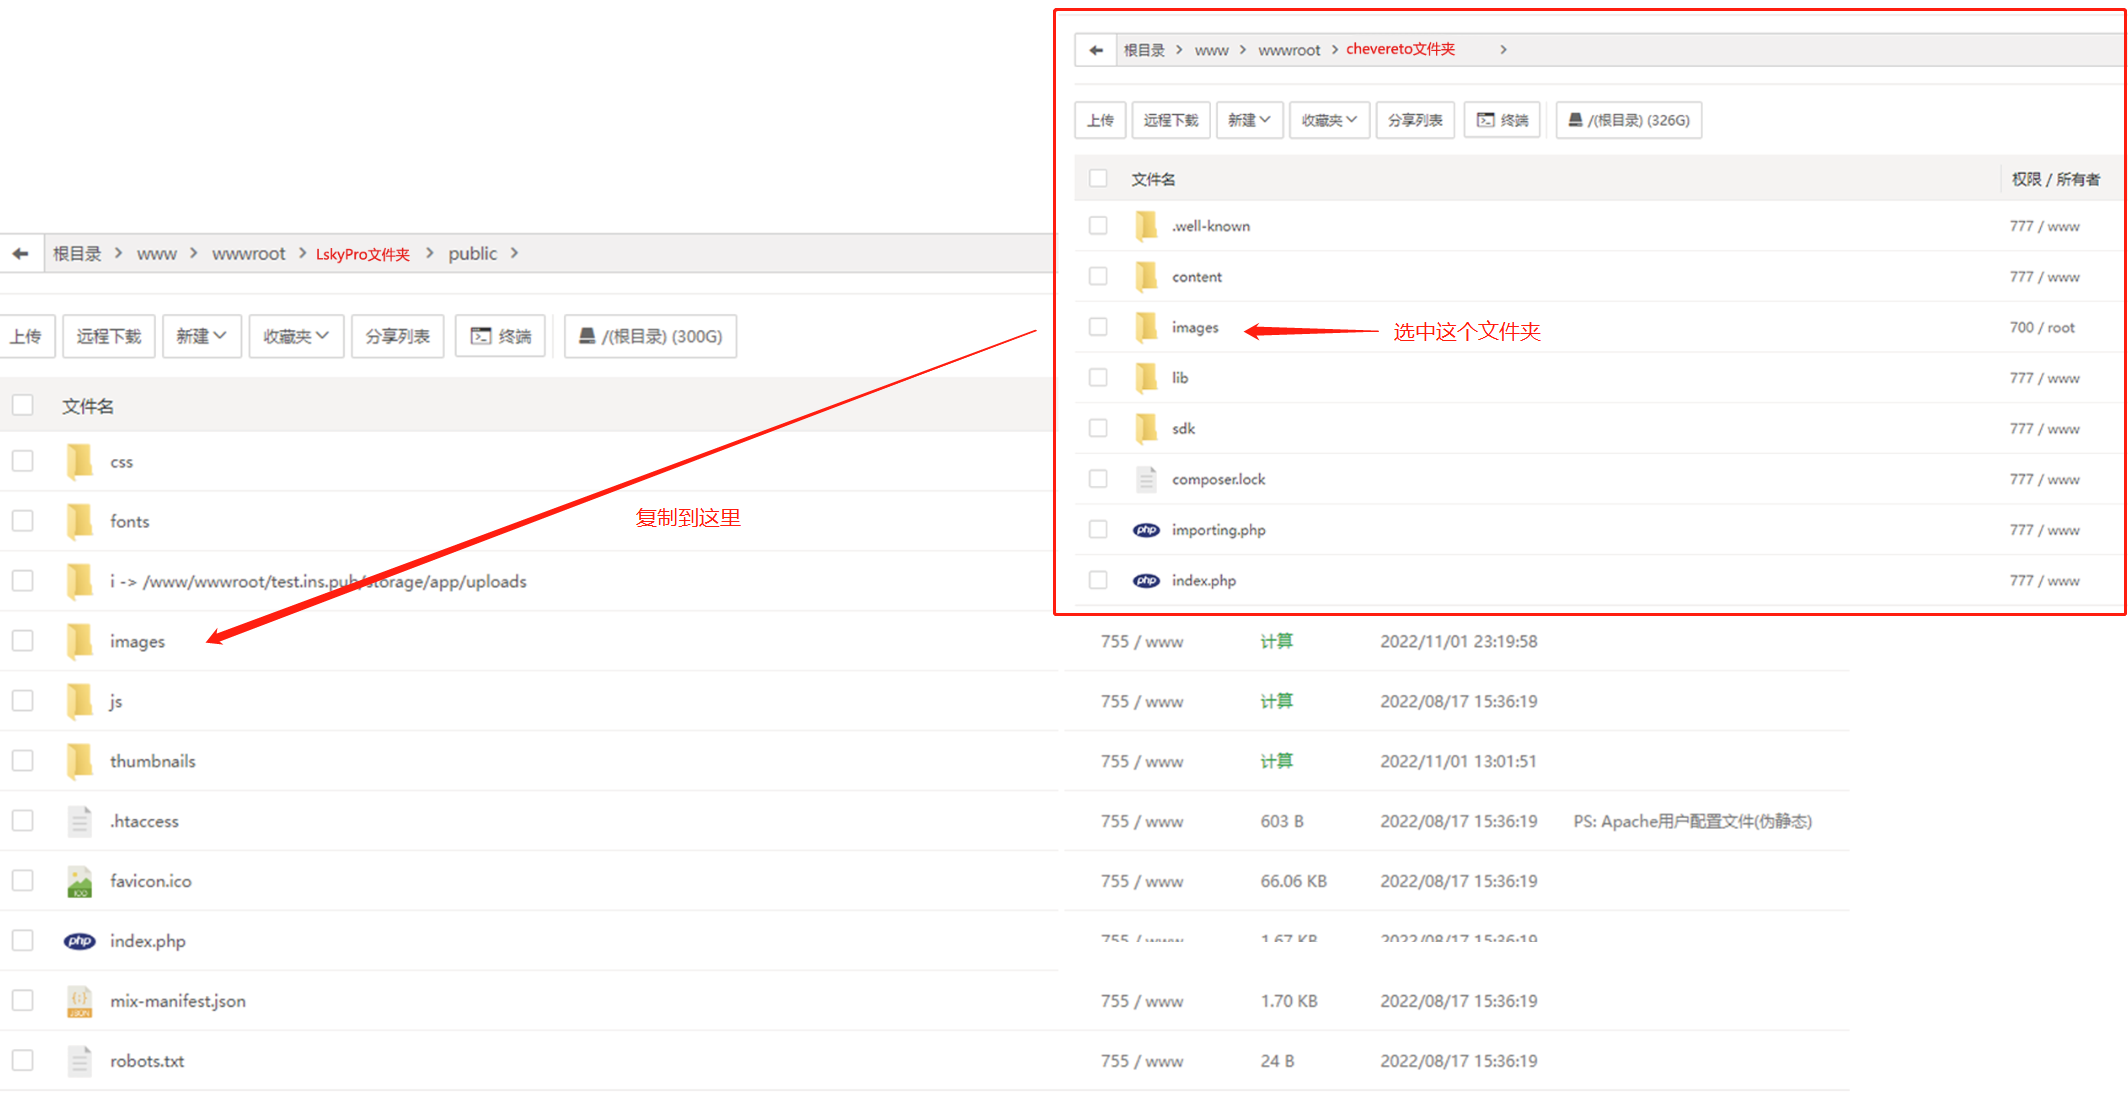
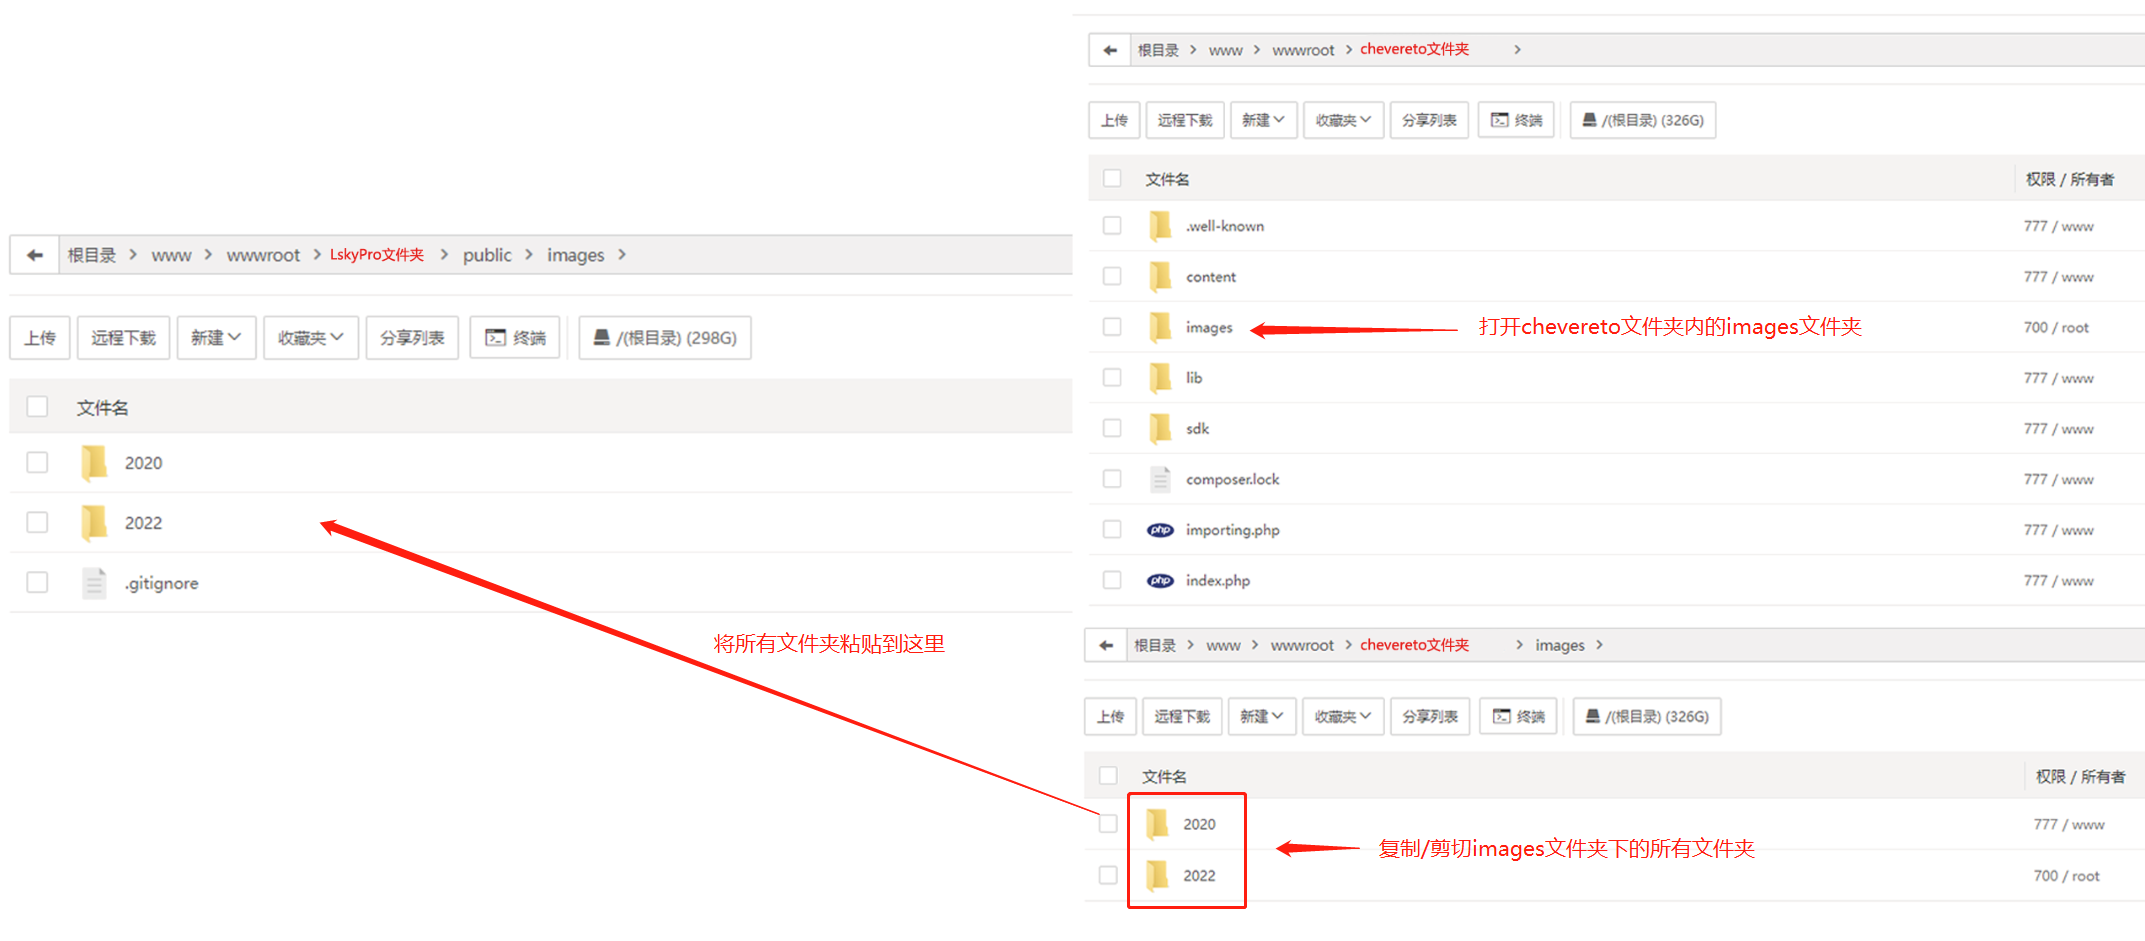
基本功能全部完成

diff --git a/main.go b/main.go
@@ -7,9 +7,9 @@ import (
 	"chevereto2LskyPro/common"
 	"chevereto2LskyPro/model"
 	"chevereto2LskyPro/sql"
+	"encoding/json"
 	"fmt"
 	"os"
-	"path"
 	"regexp"
 	"strconv"
 )
@@ -155,7 +155,7 @@ func changeData(startAt int) {
 		}
 	}
 	// 查询并转换所有的图片
-	if data, err := sql.Db1Dql("SELECT COALESCE(image_user_id, ''), COALESCE(image_album_id, ''), image_date, image_name, image_original_filename, image_size, image_extension, image_md5, image_width, image_height, image_nsfw, image_uploader_ip FROM " + prefix1 + "images"); err == nil {
+	if data, err := sql.Db1Dql("SELECT COALESCE(image_user_id, ''), COALESCE(image_album_id, ''), image_date, image_name, image_original_filename, image_size, image_extension, image_md5, image_width, image_height, image_nsfw, image_uploader_ip FROM " + prefix1 + "images"); err == nil && startAt != 4 {
 		fmt.Printf("总计%d张图片, 开始转换\n", len(data))
 		errNum := 0
 		for k, v := range data {
@@ -182,7 +182,7 @@ func changeData(startAt int) {
 			lsky.Key = common.RandString(6)
 			// 路径
 			create := common.Str2time(v[2])
-			lsky.Path = "images/" + common.Time2String(create, false)
+			lsky.Path = common.Time2String(create, false)
 			// 图片名
 			lsky.Name = v[3] + "." + v[6]
 			// 原始文件名
@@ -244,11 +244,69 @@ func changeData(startAt int) {
 			fmt.Println(err)
 		}
 	}
+	// 更新策略
+	{
+		fmt.Println("开始更新策略")
+		config, err := sql.Db2Dql("SELECT configs from " + prefix2 + "strategies WHERE id = 1")
+		if err != nil || config[0][0] == "" {
+			fmt.Println("策略更新失败, 错误信息: ", err)
+			return
+		}
+		// 解析json
+		var data map[string]interface{}
+		err = json.Unmarshal([]byte(config[0][0]), &data)
+		if err != nil {
+			fmt.Println("策略更新失败, 错误信息: ", err)
+			return
+		}
+		host := data["url"].(string)
+		pattern := regexp.MustCompile("^http(s)?://.+?/")
+		host = pattern.FindString(host)
+		if host == "" {
+			fmt.Println("策略更新失败, 错误信息: ", "无法找到域名")
+			return
+		}
+		targetPath := data["root"].(string)
+		path := common.GetConfigString("img", "path") + "/public/images"
+		data["url"] = host + "images"
+
+		symErr := os.Symlink(targetPath, path)
+		if symErr == nil {
+			fmt.Println("软链接创建成功")
+		} else {
+			fmt.Println("软链接创建失败, 错误信息: ", symErr)
+		}
+
+		// 更新数据库
+		json, DbErr := json.Marshal(data)
+		if DbErr != nil {
+			fmt.Println("数据库更新失败, 错误信息: ", err)
+			return
+		}
+		_, DbErr = sql.Db2Dml("UPDATE "+prefix2+"strategies SET configs = ? WHERE id = 1", json)
+		if DbErr == nil {
+			fmt.Println("数据库更新成功")
+		} else {
+			fmt.Println("数据库更新失败, 错误信息: ", err)
+		}
+
+		if symErr == nil && DbErr == nil {
+			fmt.Println("策略更新成功")
+			return
+		}
+		fmt.Println("策略更新部分失败")
+	}
+	fmt.Println("转换全部完成!!!")
 }
 
 // 删除多余图片
 func deleteMoreImage() {
-	path := common.GetConfigString("img", "path")
+	path, err := os.Readlink(common.GetConfigString("img", "path") + "/public/images")
+	if err != nil {
+		fmt.Println("读取文件夹失败, 错误信息: ", err)
+		return
+	}
+	path += "/"
 	list := new([]string)
 	// 获取所有的文件
 	if common.GetAllFile(path, list) != nil {
@@ -272,40 +330,19 @@ func deleteMoreImage() {
 	fmt.Printf("已为你删除%d个文件, 删除失败%d个", total, errNUm)
 }
 
-// 创建软链接
-func createSymlink() {
-	targetPath := path.Dir(common.GetConfigString("img", "path"))
-	path, err := os.Readlink(path.Dir(targetPath) + "/i")
-	if err != nil {
-		fmt.Println("软链接创建失败, 错误信息: " + err.Error())
-		return
-	}
-	path += "/images"
-
-	fmt.Println("开始软链接 " + path + " 到 " + targetPath)
-	err = os.Symlink(targetPath, path)
-	if err != nil {
-		fmt.Println("软链接创建失败, 错误信息: " + err.Error())
-	} else {
-		fmt.Println("软链接创建成功")
-	}
-}
-
 // 转换函数
 func main() {
 	var input int
 	// 是否需要删除重复文件
-	fmt.Printf("欢迎使用图床转换工具\n请选择操作(1转换数据库 2删除重复文件 3创建软链接):")
+	fmt.Printf("欢迎使用图床转换工具\n请选择操作(1转换数据库 2删除重复文件):")
 	if _, err := fmt.Scan(&input); err == nil && input == 1 {
-		fmt.Printf("请选择从哪个步骤开始(1从转移用户&相册开始 2从转移用户开始 3从转移图片开始):")
-		if _, err := fmt.Scan(&input); err == nil && (input == 1 || input == 2 || input == 3) {
+		fmt.Printf("请选择从哪个步骤开始(1从转移用户&相册开始 2从转移用户开始 3从转移图片开始 4从更新策略开始):")
+		if _, err := fmt.Scan(&input); err == nil && (input == 1 || input == 2 || input == 3 || input == 4) {
 			changeData(input)
 		} else {
 			fmt.Println("输入错误")
 		}
 	} else if err == nil && input == 2 {
-		createSymlink()
-	} else if err == nil && input == 3 {
 		deleteMoreImage()
 	} else if err != nil {
 		fmt.Println(err)

diff --git a/readme.md b/readme.md
@@ -19,7 +19,9 @@
 
 然后用 `./chevereto2LskyPro` 启动程序
 
-根据提示选择操作, 我们先选择 `转换数据库`, 然后根据想要的选项进行选择
+根据提示选择操作, 我们先选择 `转换数据库`
+
+如果尚未进行过转换, 推荐从 `1转移用户&相册开始` 开始
 
 ![image](./images/02.png)
 
@@ -30,16 +32,7 @@
 **至此, 所有的数据迁移工作已经完成**
 
 ---
-## 创建软链接（可选）
-
-迁移文件后, 可能会导致在管理后台无法显示图片, 这是因为图片文件的路径发生了变化, 我们需要手动创建软链接
-
-此步骤可选, 如果不需要管理后台显示转移的图片, 可以跳过此步骤（新上传的图片不受影响）
-
-如需要创建软链接, 启动应用后选择 `创建软链接` 即可
-
----
-## 删除重复文件（可选）
+## 删除重复文件 (可选)
 
 默认图床一个图片会默认分成三种, 这里我们用不到
 
